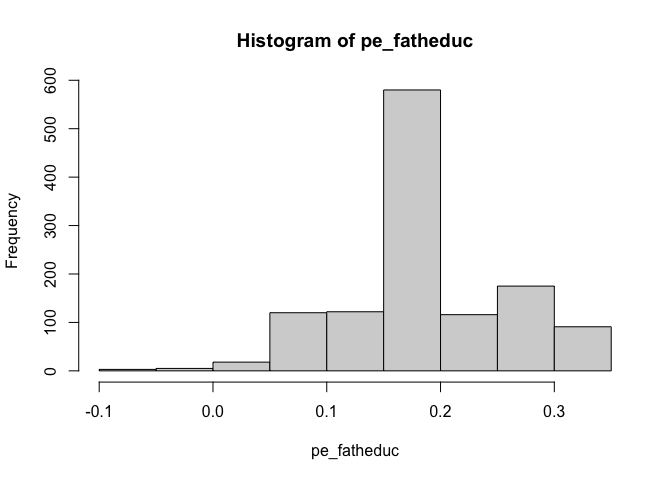
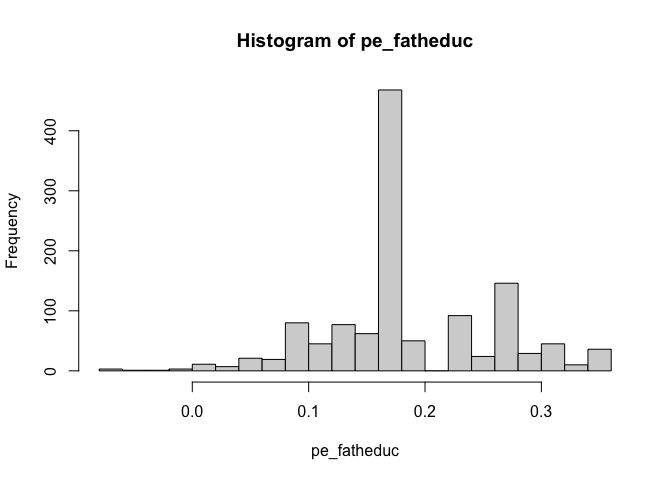
update readme

diff --git a/README.md b/README.md
@@ -10,9 +10,9 @@
 This is a package that attempts to mimic the full suite of Stata used in
 the ECO394M Econometrics class. The goal is to make the usage of this R
 package as close to Stata as possible, and to provide the tools so that
-the naive user can replicate Stata in a non-proprietary language. It is
-not necessarily the quickest way to do something in R. For that, dig
-into the code here on GitHub.
+the naive user can replicate Stata in a non-licensed language. It is not
+necessarily the quickest way to do something in R. For that, dig into
+the code here on GitHub.
 
 ## Installation
 
@@ -68,7 +68,7 @@ This will get filled out with more options as we go along. Have patience
 regr(educ ~ motheduc + fatheduc + abil)
 #> 
 #> Call:
-#> stats::lm(formula = formula, data = .data())
+#> stats::lm(formula = formula, data = .dataset())
 #> 
 #> Residuals:
 #>    Min     1Q Median     3Q    Max 
@@ -111,7 +111,7 @@ mother’s education on the dataset and plot a histogram.
 regr(educ ~ motheduc*fatheduc + abil)
 #> 
 #> Call:
-#> stats::lm(formula = formula, data = .data())
+#> stats::lm(formula = formula, data = .dataset())
 #> 
 #> Residuals:
 #>    Min     1Q Median     3Q    Max 
@@ -138,7 +138,7 @@ the partial effect now and plot a histogram:
 
 ``` r
 gen(pe_fatheduc = b_(motheduc) + fatheduc * b_(`motheduc:fatheduc`))
-hist(pe_fatheduc)
+hist(pe_fatheduc, breaks = 20)
 ```
 
 <img src="man/figures/README-unnamed-chunk-8-1.png" width="100%" />
